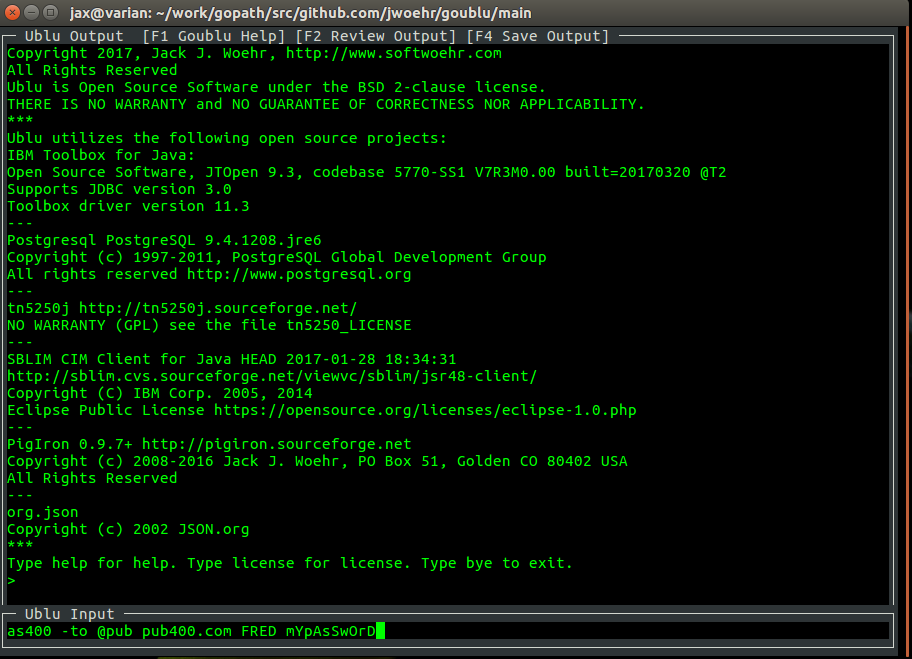
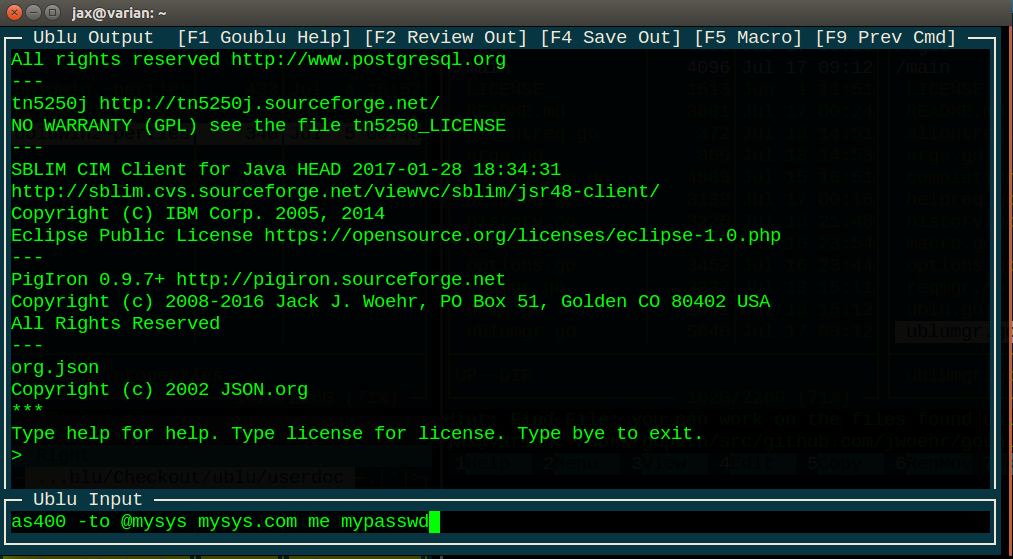
more on Goublu

diff --git a/userdoc/ubluguide.html b/userdoc/ubluguide.html
@@ -15,7 +15,7 @@
   name="description">
   <link rel="stylesheet" type="text/css" href="ublujedit.css">
   <meta http-equiv="Last-Modified" content=
-  "Wed, 5 Jul 2017 17:28:21 UTC">
+  "Mon, 17 Jul 2017 18:25:36 UTC">
 </head>
 
 <body>
@@ -379,23 +379,26 @@
   <h3><a name="Starnix_Installation">Linux/Mac/OpenBSD</a></h3>
 
   <ul>
-    <li>Unzip in <code>/opt/ublu/</code></li>
+    <li>Unzip the Ublu distribution in <code>/opt/ublu/</code></li>
 
     <li>Create config files (like these samples or altered to your
     needs) in <code>~/.config/ublu/</code>
       <pre>
-<em>.config/ublu/goublu.properties</em>
-<code>
+<em>.config/ublu/goublu.properties (assuming you have build and installed <a href="#Goublu">Goublu</a>)</em>
+<code>#Goublu properties
+#Colors, directories, keystores, macros
 BgColorIn=ColorBlack
 FgColorIn=ColorGreen
 BgColorOut=ColorBlack
 FgColorOut=ColorRed
 UbluDir=/opt/ublu
 SaveOutDir=.
-</code>
+JavaOpt=-Djavax.net.ssl.trustStore=/path_to/keystore
+Macro=mysys as400 -to @mysys -usessl MYSYS.COM MYPROFILE mYpAsSw0rD</code>
+<em>... etc.</em>
+
 <em>.config/ublu/ubluwin.properties</em>
-<code>
-#Ublu Windowing Properties
+<code>#Ublu Windowing Properties
 #Sun Jul 02 18:00:59 MDT 2017
 UbluTextAreaBGColor=ff000000
 UbluTextAreaFGColor=e3e90000
@@ -414,8 +417,8 @@ UbluInputAreaFGColor=ff36b80b
     <li>Create aliases e.g., in <code>~/.bash_aliases</code>
       <pre>
 <code>alias ublu='java -jar /opt/ublu/ublu.jar $*'
-alias gu='/home/jax/work/gopath/src/github.com/jwoehr/goublu/main/goublu -g PropsFile=/home/jax/.config/ublu/goublu.properties $*'
-alias gw='ublu -w /home/jax/.config/ublu/ubluwin.properties $*'</code>
+alias gu='$GOPATH/bin/goublu -g PropsFile=/home/me/.config/ublu/goublu.properties $*'
+alias gw='ublu -w /home/me/.config/ublu/ubluwin.properties $*'</code>
 </pre>
     </li>
 
@@ -3272,23 +3275,26 @@ woof</em>
       console</h2>
 
       <p>Goublu is a <a href="http://golang.org/">Go language</a>
-      front end that provides a better console interface to Ublu
-      than the console support provided by Java.</p>
+      front end that launches Ublu and provides a better console
+      interface to the running Ublu instance than the console
+      support provided by Java.</p>
 
       <p>On most platforms, the Java console does not provide
       command line editing nor command line recall. Goublu provides
-      both, along with other features. Goublu is a more congenial
-      environment for interactive Ublu usage. Goublu has some
-      limitations, and "plain" Ublu is better for running Ublu
-      applications.</p>
+      both, along with other features such as macro expansion for
+      commonly used command lines.</p>
+
+      <p>While "plain" Ublu may be better for running Ublu
+      applications, Goublu is a more congenial environment than
+      "plain" Ublu for interactive Ublu usage.</p>
 
       <p>Goublu must be compiled on the specific platform. You can
       install the Go language development environment and follow
       the <a href="https://github.com/jwoehr/goublu">instructions
       to get Goublu and build it</a> on your machine.</p>
 
-      <div align="center"><img src="images/goublu_screenshot.png"
-      width="912" height="659" alt=""></div>
+      <p><img src="images/goublu_screenshot.png" width="1013"
+      height="559" alt="Goublu Screenshot"></p>
 
       <h2><a name="Ublu_as_window">Running Ublu as a
       window</a></h2>
@@ -3332,8 +3338,8 @@ woof</em>
         windowing mode.</li>
       </ul>
 
-      <div align="center"><img src="images/ubluwin.jpg" width=
-      "1058" height="455" alt="Windowing Ublu"></div>
+      <p><img src="images/ubluwin.jpg" width="1058" height="455"
+      alt="Windowing Ublu"></p>
 
       <p>I use the following properties file
       <code>$HOME/.config/ublu/ubluwin.properties</code> on
@@ -3360,8 +3366,8 @@ UbluInputAreaFGColor=ff36b80b</code>
       $HOME/.config/ublu/ubluwin.properties</code> Ublu looks like
       this:</p>
 
-      <div align="center"><img src="images/ubluprops.png" width=
-      "1057" height="659" alt=""></div>
+      <p><img src="images/ubluprops.png" width="1057" height="659"
+      alt=""></p>
 
       <p><font size="+2"><strong>!!</strong></font> Windowing Ublu,
       you may wish to set <code>props -set signon.handler.type
